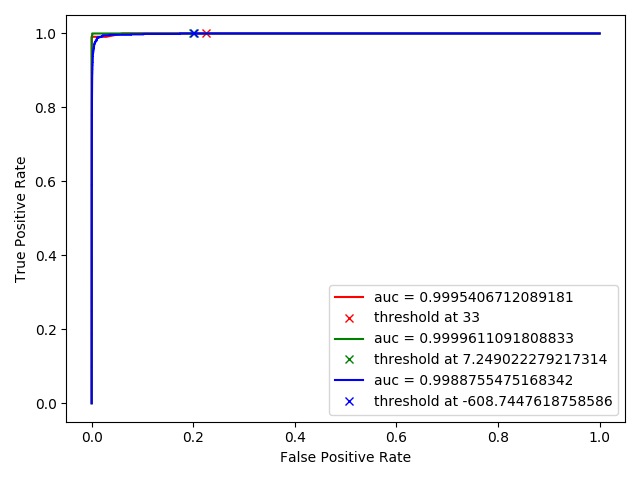
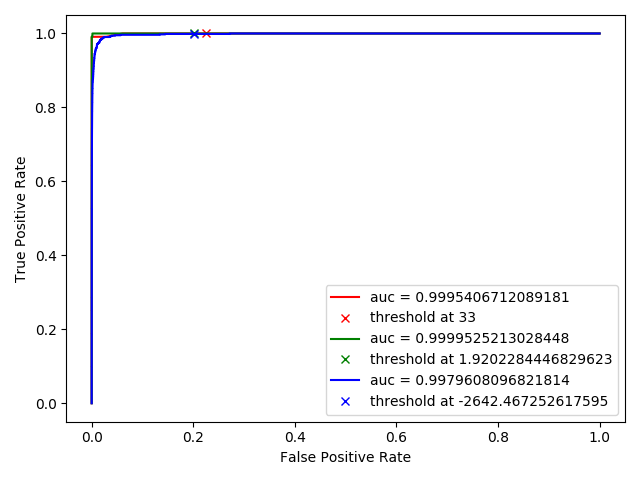
low markov graphs

diff --git a/hw4/src/main.py b/hw4/src/main.py
@@ -71,8 +71,10 @@ def calculate_score(locs, seq, trusted_list, bg_list):
   return p_score - q_score
 
 def calculate_prob(seq, kmer_counts, kmer_plusone_counts, kmer_start_counts):
-  kmer_key_num = len(kmer_counts.keys())
-  # kmer_key_num = len(c.nucleotides)
+  # i cant figure out what this should be based on maths
+  # kmer_key_num = len(kmer_counts.keys())
+  kmer_key_num = len(c.nucleotides)
+
   kmer_count_total = sum(kmer_counts.values())
   start = seq[0:c.k]
 
